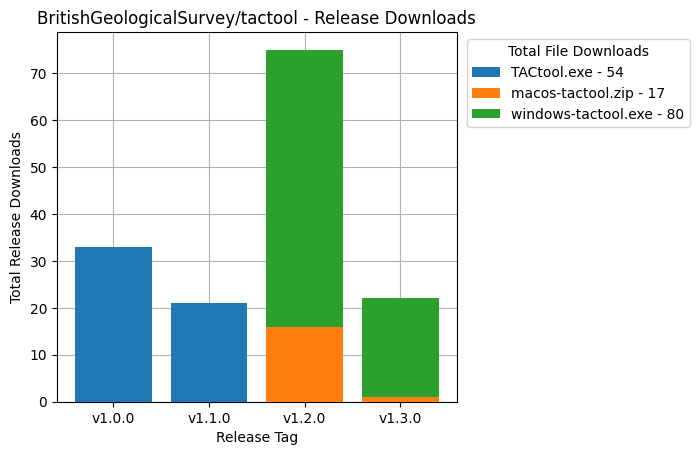
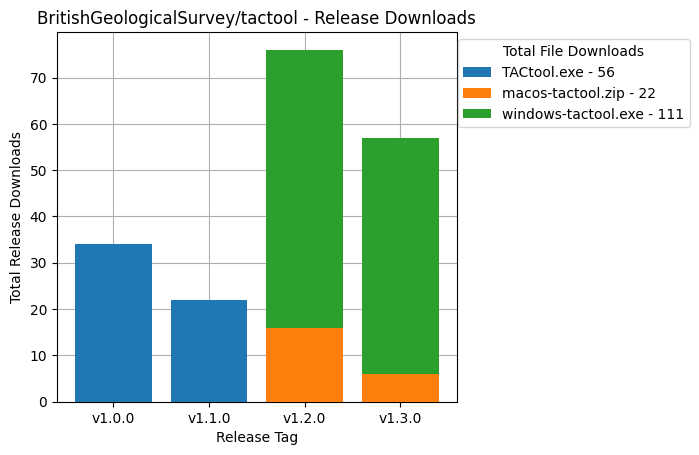
Final tweaks to dates

diff --git a/paper/paper.md b/paper/paper.md
@@ -26,7 +26,7 @@ affiliations:
     index: 1
   - name: University of Surrey, Surrey, UK.
     index: 2
-date: XX
+date: 5 September 2025
 bibliography: paper.bib
 ---
 
@@ -59,7 +59,7 @@ The intuitive and accessible front-end design of TACtool allows users with a lac
 
 The community surrounding TACtool has been growing since it's initial release, as shown by the download metrics from GitHub (\autoref{fig:figure_1}). Many recent changes to the software originate from community feedback, including bug fixes, the addition of the transparent ghost point for easier ROI identification (v1.3.0), and a MacOS version of the software to accommodate a new user base (v1.2.0). This feedback came from GitHub issues and discussions at LA-ICP-MS conferences.
 
-![TACtool download metrics as of 2024/10/18. Executable downloads are provided by GitHub releases and their statistics via the GitHub API.
+![TACtool download metrics as of 2025/09/05. Executable downloads are provided by GitHub releases and their statistics via the GitHub API.
 \label{fig:figure_1}](release_downloads_tactool.png)
 
 Although TACtool was initially created for geological samples, it has possible applications for many other fields requiring spatial coordination and re-cordination of disparate, spatially correlated data sets. The use cases of TACtool are scale independent and as a standalone user environment, TACtool is platform agnostic with outputs that can be used with any downstream instrumentation able to use the output information. This wider use is promoted by the fact that TACtool is open source and free to use, making it excellent for any community requiring its use, and enabling individuals to contribute to further features and adapting it for their own specific needs.
